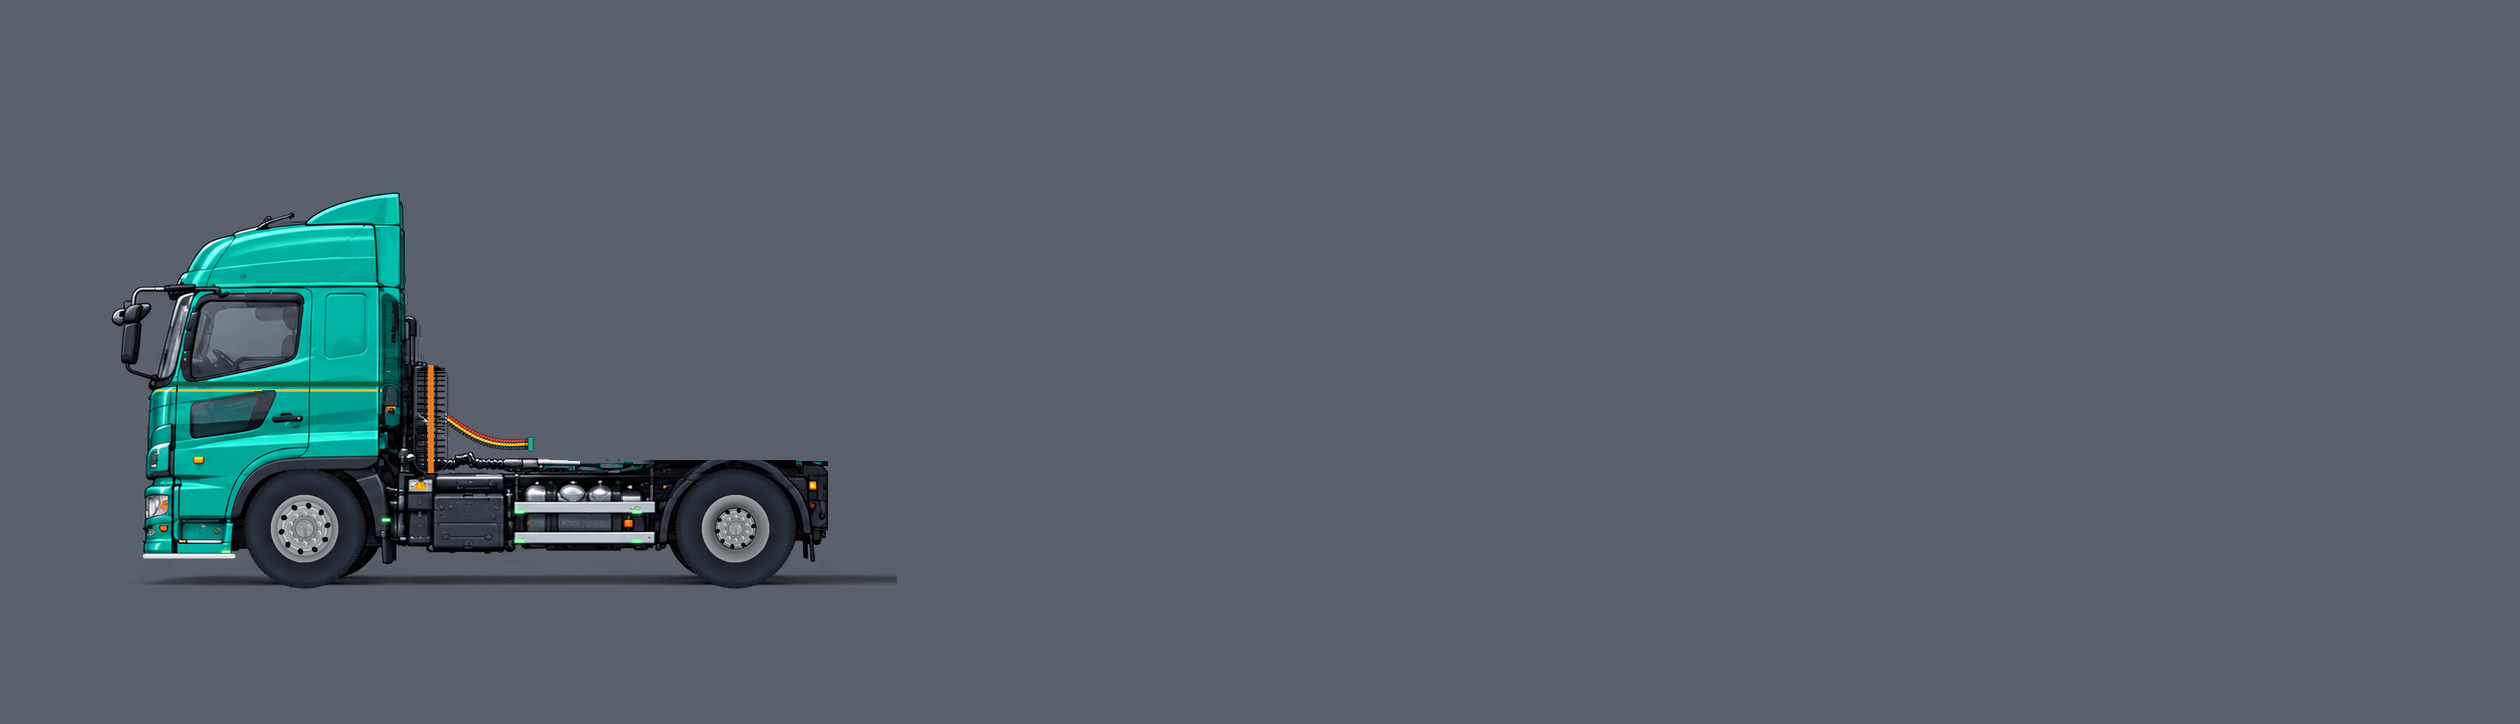
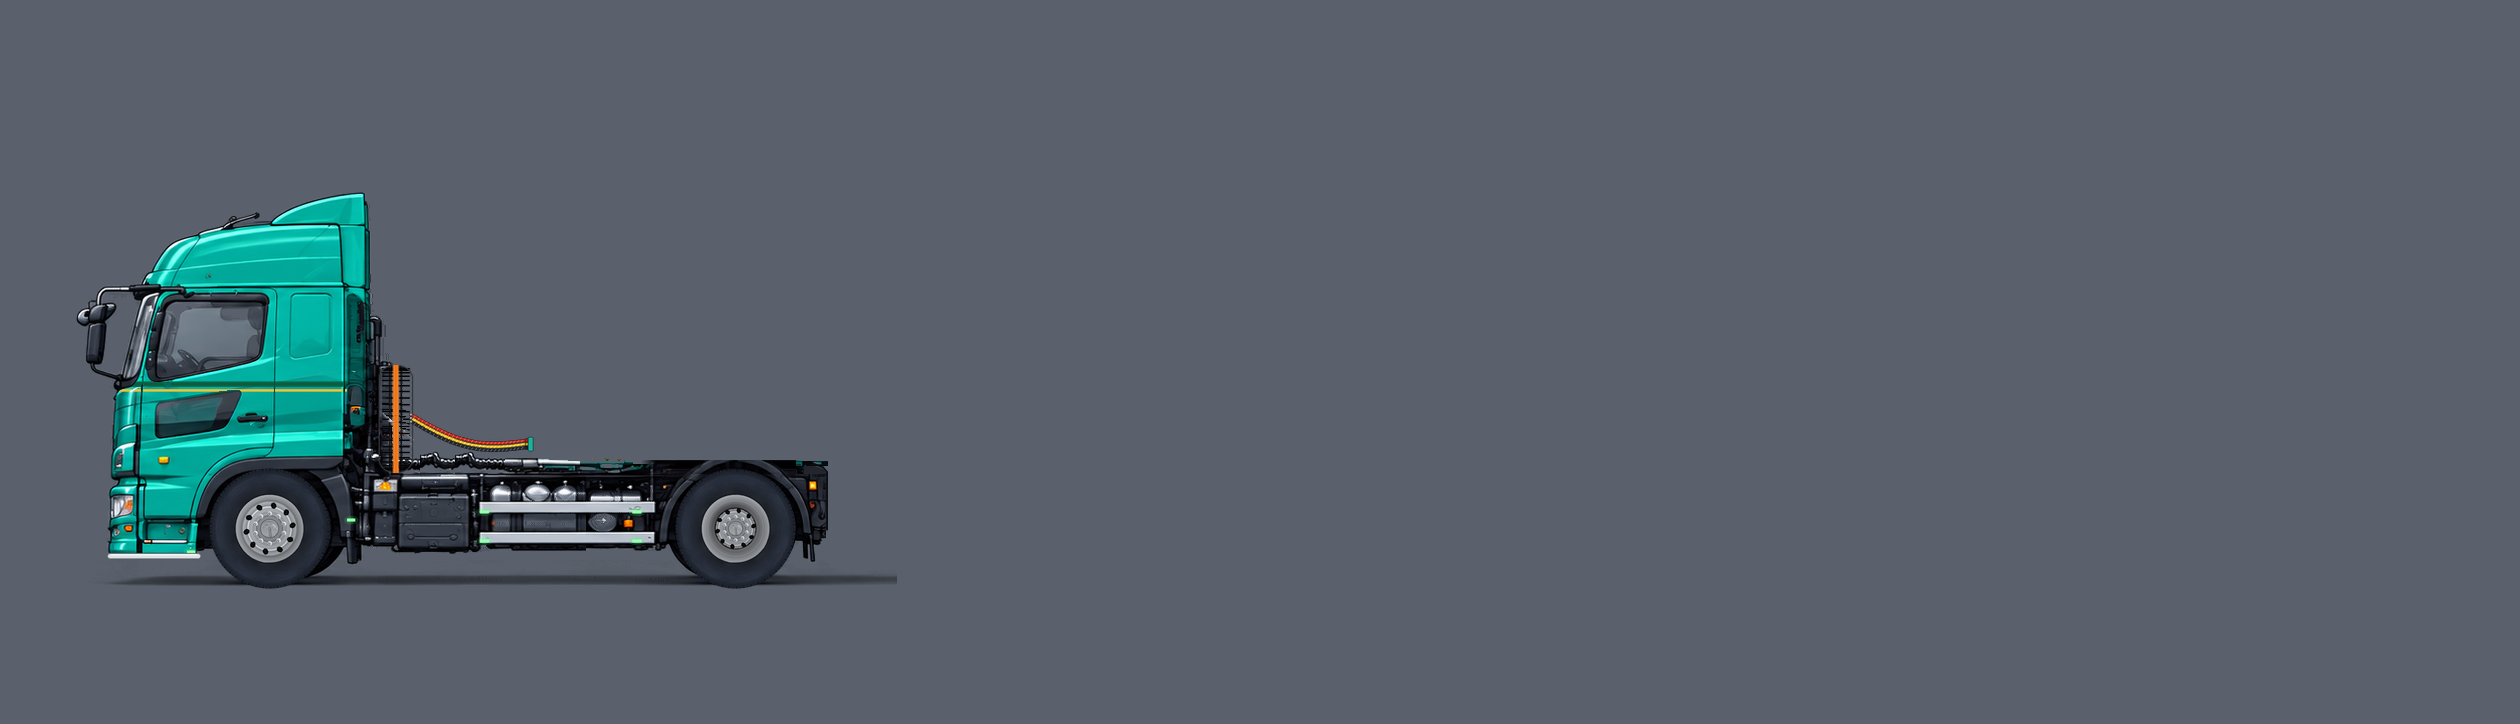
ビルド279.1.61(D53)

Changed region(s): [[0.031, 0.2431, 0.2476, 0.8204]]

diff --git a/index.html b/index.html
@@ -301,33 +301,33 @@
     color: #1b1f24; font-size: 13px; font-weight: bold; line-height: 1.2; text-align: center;
     background: none;
     border: 14px solid transparent; border-width: 14px; margin: 0;
-    border-image: url(assets/common/ui/btn_plate.png?v=279.1.60) 14 fill / 14px stretch;
+    border-image: url(assets/common/ui/btn_plate.png?v=279.1.61) 14 fill / 14px stretch;
     border-radius: 0;
     text-shadow: 0 1px 0 rgba(255,255,255,.35);
   }
-  .plate:active, #floorPanel .mechRow button:active, #chockPanel button:active, #btnOrient:active, #btnOrientCar:active, #deckDrawerHandle:active { border-image-source: url(assets/common/ui/btn_plate_pressed.png?v=279.1.60); padding-top: 2px; }
-  #floorPanel .mechRow button.on, #chockPanel button.on, #btnOrientCar { border-image-source: url(assets/common/ui/btn_plate_go.png?v=279.1.60); }
-  #floorPanel .mechRow button.on:active, #btnOrientCar:active { border-image-source: url(assets/common/ui/btn_plate_go_pressed.png?v=279.1.60); }
-  #btnLid { border-image-source: url(assets/common/ui/btn_plate_warn.png?v=279.1.60); }
-  #btnLid:active { border-image-source: url(assets/common/ui/btn_plate_warn_pressed.png?v=279.1.60); }
-  #floorPanel .mechRow button.go { border-image-source: url(assets/common/ui/btn_plate_go.png?v=279.1.60); }
-  #floorPanel .mechRow button.go:active { border-image-source: url(assets/common/ui/btn_plate_go_pressed.png?v=279.1.60); }
-  #chockPanel button:disabled, #btnOrient:disabled { border-image-source: url(assets/common/ui/btn_plate_disabled.png?v=279.1.60); opacity: 1; color: #6b7078; text-shadow: none; }
+  .plate:active, #floorPanel .mechRow button:active, #chockPanel button:active, #btnOrient:active, #btnOrientCar:active, #deckDrawerHandle:active { border-image-source: url(assets/common/ui/btn_plate_pressed.png?v=279.1.61); padding-top: 2px; }
+  #floorPanel .mechRow button.on, #chockPanel button.on, #btnOrientCar { border-image-source: url(assets/common/ui/btn_plate_go.png?v=279.1.61); }
+  #floorPanel .mechRow button.on:active, #btnOrientCar:active { border-image-source: url(assets/common/ui/btn_plate_go_pressed.png?v=279.1.61); }
+  #btnLid { border-image-source: url(assets/common/ui/btn_plate_warn.png?v=279.1.61); }
+  #btnLid:active { border-image-source: url(assets/common/ui/btn_plate_warn_pressed.png?v=279.1.61); }
+  #floorPanel .mechRow button.go { border-image-source: url(assets/common/ui/btn_plate_go.png?v=279.1.61); }
+  #floorPanel .mechRow button.go:active { border-image-source: url(assets/common/ui/btn_plate_go_pressed.png?v=279.1.61); }
+  #chockPanel button:disabled, #btnOrient:disabled { border-image-source: url(assets/common/ui/btn_plate_disabled.png?v=279.1.61); opacity: 1; color: #6b7078; text-shadow: none; }
   #floorPanel .mechRow button::before, #chockPanel #btnLid::before, #chockPanel #btnChockSet::before, #chockPanel #btnChockFront::before, #chockPanel #btnChockRear::before, #btnOrient::before, #btnOrientCar::before, #deckDrawerHandle::before {
     content: ''; flex: none; width: 26px; height: 26px; background-position: center; background-size: contain; background-repeat: no-repeat;
   }
   #modeBar > span:empty { display: none; }
   #floorPanel .mechRow button.hold6b::before { display: none; }   /* semi-6b の仮の昇降ボタン(アイコン無し) */
-  #btnRamp::before { background-image: url(assets/common/ui/ic_ramp.png?v=279.1.60); }
-  #btnBridge::before { background-image: url(assets/common/ui/ic_bridge.png?v=279.1.60); }
-  #btnSlide::before { background-image: url(assets/common/ui/ic_slide.png?v=279.1.60); }
-  #btnF2Flap::before { background-image: url(assets/common/ui/ic_flap2.png?v=279.1.60); }
-  #btnLid::before { background-image: url(assets/common/ui/ic_lid.png?v=279.1.60); }
-  #btnChockSet::before { background-image: url(assets/common/ui/ic_chock.png?v=279.1.60); }
-  #btnChockFront::before { background-image: url(assets/common/ui/ic_front.png?v=279.1.60); }
-  #btnChockRear::before { background-image: url(assets/common/ui/ic_rear.png?v=279.1.60); }
-  #btnOrient::before, #btnOrientCar::before { background-image: url(assets/common/ui/ic_orient.png?v=279.1.60); }
-  #deckDrawerHandle::before { background-image: url(assets/common/ui/ic_drawer.png?v=279.1.60); }
+  #btnRamp::before { background-image: url(assets/common/ui/ic_ramp.png?v=279.1.61); }
+  #btnBridge::before { background-image: url(assets/common/ui/ic_bridge.png?v=279.1.61); }
+  #btnSlide::before { background-image: url(assets/common/ui/ic_slide.png?v=279.1.61); }
+  #btnF2Flap::before { background-image: url(assets/common/ui/ic_flap2.png?v=279.1.61); }
+  #btnLid::before { background-image: url(assets/common/ui/ic_lid.png?v=279.1.61); }
+  #btnChockSet::before { background-image: url(assets/common/ui/ic_chock.png?v=279.1.61); }
+  #btnChockFront::before { background-image: url(assets/common/ui/ic_front.png?v=279.1.61); }
+  #btnChockRear::before { background-image: url(assets/common/ui/ic_rear.png?v=279.1.61); }
+  #btnOrient::before, #btnOrientCar::before { background-image: url(assets/common/ui/ic_orient.png?v=279.1.61); }
+  #deckDrawerHandle::before { background-image: url(assets/common/ui/ic_drawer.png?v=279.1.61); }
   #chockPanel #btnChockFront, #chockPanel #btnChockRear { font-size: 0; padding: 0 4px; min-width: 56px; }   /* ◀前へ・後ろへ▶ は、アイコンだけ */
   #chockPanel #btnChockFront::after { content: '前へ'; font-size: 12px; }
   #chockPanel #btnChockRear::after { content: '後ろへ'; font-size: 12px; }
@@ -336,57 +336,57 @@
   /* 輪止め・落し蓋のスロット: フロアの名札(slot_*)。選んでいる番号は黄色い縁 */
   #slotSel button { box-sizing: border-box; width: 46px; height: 46px; min-width: 0; padding: 0; border: 0; border-radius: 0; font-size: 0; color: transparent; background: center / contain no-repeat; }
   #slotSel button.on { background-color: transparent; border: 0; }
-  #slotSel button[data-slot="1"] { background-image: url(assets/common/ui/slot_1.png?v=279.1.60); } #slotSel button[data-slot="1"].on { background-image: url(assets/common/ui/slot_1_selected.png?v=214); }
-  #slotSel button[data-slot="2"] { background-image: url(assets/common/ui/slot_2.png?v=279.1.60); } #slotSel button[data-slot="2"].on { background-image: url(assets/common/ui/slot_2_selected.png?v=214); }
-  #slotSel button[data-slot="3"] { background-image: url(assets/common/ui/slot_3.png?v=279.1.60); } #slotSel button[data-slot="3"].on { background-image: url(assets/common/ui/slot_3_selected.png?v=214); }
-  #slotSel button[data-slot="4"] { background-image: url(assets/common/ui/slot_4.png?v=279.1.60); } #slotSel button[data-slot="4"].on { background-image: url(assets/common/ui/slot_4_selected.png?v=214); }
-  #slotSel button[data-slot="5"] { background-image: url(assets/common/ui/slot_5.png?v=279.1.60); } #slotSel button[data-slot="5"].on { background-image: url(assets/common/ui/slot_5_selected.png?v=214); }
-  #slotSel button[data-slot="6"] { background-image: url(assets/common/ui/slot_6.png?v=279.1.60); } #slotSel button[data-slot="6"].on { background-image: url(assets/common/ui/slot_6_selected.png?v=214); }
-  #slotSel button[data-slot="7"] { background-image: url(assets/common/ui/slot_mid.png?v=279.1.60); } #slotSel button[data-slot="7"].on { background-image: url(assets/common/ui/slot_mid_selected.png?v=214); }
+  #slotSel button[data-slot="1"] { background-image: url(assets/common/ui/slot_1.png?v=279.1.61); } #slotSel button[data-slot="1"].on { background-image: url(assets/common/ui/slot_1_selected.png?v=214); }
+  #slotSel button[data-slot="2"] { background-image: url(assets/common/ui/slot_2.png?v=279.1.61); } #slotSel button[data-slot="2"].on { background-image: url(assets/common/ui/slot_2_selected.png?v=214); }
+  #slotSel button[data-slot="3"] { background-image: url(assets/common/ui/slot_3.png?v=279.1.61); } #slotSel button[data-slot="3"].on { background-image: url(assets/common/ui/slot_3_selected.png?v=214); }
+  #slotSel button[data-slot="4"] { background-image: url(assets/common/ui/slot_4.png?v=279.1.61); } #slotSel button[data-slot="4"].on { background-image: url(assets/common/ui/slot_4_selected.png?v=214); }
+  #slotSel button[data-slot="5"] { background-image: url(assets/common/ui/slot_5.png?v=279.1.61); } #slotSel button[data-slot="5"].on { background-image: url(assets/common/ui/slot_5_selected.png?v=214); }
+  #slotSel button[data-slot="6"] { background-image: url(assets/common/ui/slot_6.png?v=279.1.61); } #slotSel button[data-slot="6"].on { background-image: url(assets/common/ui/slot_6_selected.png?v=214); }
+  #slotSel button[data-slot="7"] { background-image: url(assets/common/ui/slot_mid.png?v=279.1.61); } #slotSel button[data-slot="7"].on { background-image: url(assets/common/ui/slot_mid_selected.png?v=214); }
   #slotSel button:active { filter: brightness(.85); }
 
   /* 前進(◀ 緑)・後退(▶ 橙)の大きな丸い押ボタン(押している間は沈む。クラス down は ui_layout.js が付ける) */
   #arrowGroup { background: none; border: 0; padding: 0; gap: 14px; }
   #arrowGroup .arrowBtn { width: 76px; height: 76px; border: 0; border-radius: 0; background-color: transparent; background-position: center; background-size: contain; background-repeat: no-repeat; font-size: 0; color: transparent; }
-  #btnLeft { background-image: url(assets/common/ui/btn_drive_fwd.png?v=279.1.60); }
-  #btnRight { background-image: url(assets/common/ui/btn_drive_back.png?v=279.1.60); }
-  #btnLeft:active, #btnLeft.down { background-image: url(assets/common/ui/btn_drive_fwd_pressed.png?v=279.1.60); background-color: transparent; }
-  #btnRight:active, #btnRight.down { background-image: url(assets/common/ui/btn_drive_back_pressed.png?v=279.1.60); background-color: transparent; }
+  #btnLeft { background-image: url(assets/common/ui/btn_drive_fwd.png?v=279.1.61); }
+  #btnRight { background-image: url(assets/common/ui/btn_drive_back.png?v=279.1.61); }
+  #btnLeft:active, #btnLeft.down { background-image: url(assets/common/ui/btn_drive_fwd_pressed.png?v=279.1.61); background-color: transparent; }
+  #btnRight:active, #btnRight.down { background-image: url(assets/common/ui/btn_drive_back_pressed.png?v=279.1.61); background-color: transparent; }
   body { padding-bottom: 104px; }
 
   /* 上の情報欄・下の操作パネルの背景 */
-  #modeBar { box-sizing: border-box; background: none; border: solid transparent; border-width: 0 24px 6px 24px; border-image: url(assets/common/ui/hud_bar.png?v=279.1.60) 0 24 6 24 fill / 0 24px 6px 24px stretch; padding: 8px 0 4px; gap: 8px; color: #dfe8f2; min-height: 56px; align-items: center; }
+  #modeBar { box-sizing: border-box; background: none; border: solid transparent; border-width: 0 24px 6px 24px; border-image: url(assets/common/ui/hud_bar.png?v=279.1.61) 0 24 6 24 fill / 0 24px 6px 24px stretch; padding: 8px 0 4px; gap: 8px; color: #dfe8f2; min-height: 56px; align-items: center; }
   #modeBar #modeBarName { flex: 1 1 100%; font-size: 14px; }
-  #modeBar > span:not(#modeBarName):not(#missCount) { box-sizing: border-box; border: 8px solid transparent; border-image: url(assets/common/ui/meter_box.png?v=279.1.60) 8 fill / 8px stretch; padding: 0 2px; min-width: 56px; text-align: center; font-size: 13px; color: #7dfcd0; font-weight: bold; line-height: 1.1; }
+  #modeBar > span:not(#modeBarName):not(#missCount) { box-sizing: border-box; border: 8px solid transparent; border-image: url(assets/common/ui/meter_box.png?v=279.1.61) 8 fill / 8px stretch; padding: 0 2px; min-width: 56px; text-align: center; font-size: 13px; color: #7dfcd0; font-weight: bold; line-height: 1.1; }
   #modeBar #modeBarScore { margin-left: auto; color: #ffd34d; }
   #modeBar #missCount { margin-left: 4px; font-size: 14px; }
   #toolbar { display: none; }
   body.debug #toolbar { display: flex; }
   #status { display: none; }
   body.debug #status { display: block; }
-  #floorPanel, #chockPanel, #controls { box-sizing: border-box; background: none; border: solid transparent; border-width: 12px 16px 8px 16px; border-image: url(assets/common/ui/panel_bg.png?v=279.1.60) 12 16 8 16 fill / 12px 16px 8px 16px stretch; margin-top: 2px; }
+  #floorPanel, #chockPanel, #controls { box-sizing: border-box; background: none; border: solid transparent; border-width: 12px 16px 8px 16px; border-image: url(assets/common/ui/panel_bg.png?v=279.1.61) 12 16 8 16 fill / 12px 16px 8px 16px stretch; margin-top: 2px; }
 
   /* A-3 必要な時だけ出す: スイッチの説明文は ? を押した時だけ。車の一覧は引き出し式 */
   #swHint { display: none !important; }
   #swHint.show { display: block !important; }
   #btnHelp, #btnSwClose { box-sizing: border-box; width: 36px; height: 36px; padding: 0; margin-left: 8px; vertical-align: middle; border: 0; background: center / contain no-repeat; font-size: 0; color: transparent; cursor: pointer; }
-  #btnHelp { background-image: url(assets/common/ui/ic_help.png?v=279.1.60); }
-  #floorPanel #btnSwClose { width: 36px; height: 36px; padding: 0; margin-left: 4px; border: 0; background: center / contain no-repeat url(assets/common/ui/ic_close.png?v=279.1.60); font-size: 0; }
+  #btnHelp { background-image: url(assets/common/ui/ic_help.png?v=279.1.61); }
+  #floorPanel #btnSwClose { width: 36px; height: 36px; padding: 0; margin-left: 4px; border: 0; background: center / contain no-repeat url(assets/common/ui/ic_close.png?v=279.1.61); font-size: 0; }
   #deckDrawerHandle { width: 100%; justify-content: flex-start; }
   #deckDrawerHandle .cnt { margin-left: auto; font-weight: normal; }
   #deckDrawer { display: none; }
   #deckDrawer.open { display: block; margin-top: 6px; }
 
   /* 今は押せない操作(車が道板・4番扇動板を通っている間など)は、灰色の板にする(ui_layout.js が na を付ける。押すとゲームが理由を出す) */
-  #floorPanel .mechRow button.na, #floorPanel .mechRow button.na:active { border-image-source: url(assets/common/ui/btn_plate_disabled.png?v=279.1.60); color: #6b7078; text-shadow: none; padding-top: 0; }
+  #floorPanel .mechRow button.na, #floorPanel .mechRow button.na:active { border-image-source: url(assets/common/ui/btn_plate_disabled.png?v=279.1.61); color: #6b7078; text-shadow: none; padding-top: 0; }
   #floorPanel .mechRow button.na::before { opacity: .45; }
 
   /* モード・難易度・結果の画面のボタンも、同じ板にそろえる(もう一度=緑) */
-  .modeBtn { box-sizing: border-box; background: none; border: 14px solid transparent; border-image: url(assets/common/ui/btn_plate.png?v=279.1.60) 14 fill / 14px stretch; border-radius: 0; color: #1b1f24; text-shadow: 0 1px 0 rgba(255,255,255,.35); padding: 4px 8px; min-height: 52px; }
+  .modeBtn { box-sizing: border-box; background: none; border: 14px solid transparent; border-image: url(assets/common/ui/btn_plate.png?v=279.1.61) 14 fill / 14px stretch; border-radius: 0; color: #1b1f24; text-shadow: 0 1px 0 rgba(255,255,255,.35); padding: 4px 8px; min-height: 52px; }
   .modeBtn small { color: #3a4048; }
-  .modeBtn:active { background: none; border-image-source: url(assets/common/ui/btn_plate_pressed.png?v=279.1.60); }
-  #btnRetry.modeBtn { border-image-source: url(assets/common/ui/btn_plate_go.png?v=279.1.60); }
-  #btnRetry.modeBtn:active { border-image-source: url(assets/common/ui/btn_plate_go_pressed.png?v=279.1.60); }
+  .modeBtn:active { background: none; border-image-source: url(assets/common/ui/btn_plate_pressed.png?v=279.1.61); }
+  #btnRetry.modeBtn { border-image-source: url(assets/common/ui/btn_plate_go.png?v=279.1.61); }
+  #btnRetry.modeBtn:active { border-image-source: url(assets/common/ui/btn_plate_go_pressed.png?v=279.1.61); }
 
   /* ===== スマホ幅: 下にスクロールしなくても、操作が1画面に収まるように詰める(車の一覧だけ、下にスクロールでよい。2026-10-06) =====
      幅 700px 以下だけに効く(パソコンの広い画面は、今まで通り)。ボタンの高さ・余白・段数を減らす */
@@ -664,7 +664,7 @@
 // トレーラーの切り替え: URL の hash に trailer=semi-6b があれば semi-6b、無ければ semi-6(従来どおり)。選んだIDは window.TRAILER_ID。
 // 読むファイルの組み合わせがトレーラーごとに違う(設定・フロア機構・積める判定・操作ボタン)ので、ここで決めて順番に読む。画像・JSを差し替えたら ?v= を上げる
 (function () {
-  var m = /[#&]trailer=(semi-6b?)(?:&|$)/.exec(location.hash), id = window.TRAILER_ID = m ? m[1] : 'semi-6', V = '?v=279.1.60';
+  var m = /[#&]trailer=(semi-6b?)(?:&|$)/.exec(location.hash), id = window.TRAILER_ID = m ? m[1] : 'semi-6', V = '?v=279.1.61';
   var list = id === 'semi-6b'
     ? ['trailer_config_semi6b', 'car_library', 'car_dims', 'car_tires', 'floor_mech_6b', 'loadable_6b', 'main', 'game', 'floor_controls_6b', 'modes', 'dispatch', 'ui_layout', 'ui_hide']
     : ['trailer_config', 'trailer_assets', 'car_library', 'car_dims', 'car_tires', 'floor_mech', 'loadable', 'main', 'game', 'floor_controls', 'modes', 'tutorial', 'dispatch', 'ui_layout', 'ui_hide'];

diff --git a/js/trailer_config.js b/js/trailer_config.js
@@ -2,11 +2,11 @@ window.TRAILER_CONFIG = {
   "id": "semi-6",
   "name": "セミトレーラー(6台積み)",
   "stage": { "w": 2520, "h": 724 },
-  "yard": { "bg": "assets/common/yard/yard_bg.png", "ground": "assets/common/yard/yard_ground.png", "frameBack": "assets/semi-6/frame_back_clear.png", "tractor": "assets/semi-6/tractor_clear.png", "v": 5 },
+  "yard": { "bg": "assets/common/yard/yard_bg.png", "ground": "assets/common/yard/yard_ground.png", "frameBack": "assets/semi-6/frame_back_clear.png", "tractor": "assets/semi-6/tractor_clear.png", "v": 6 },
   "pxPerMeter": 114,
 
   "newArt": {
-    "v": 126,
+    "v": 127,
     "note": "グラフィック制作チャットの新素材(assets/semi-6/...)。floors=フロア(ステージ全面サイズ)",
     "switchScale": 0.27, "switchDir": "assets/common/switches/",
     "switchParts": ["sw_pendant2", "sw_pendant6", "sw_box2", "lamp_panel_lock", "btn_cap_ue_big", "btn_cap_ue_big_pressed", "btn_cap_shita_big", "btn_cap_shita_big_pressed", "btn_sq", "btn_sq_pressed", "btn_cap6_nobi_big", "btn_cap6_chiji_big", "btn_cap6_migi_oshi_big", "btn_cap6_migi_hiki_big", "btn_cap6_hidari_oshi_big", "btn_cap6_hidari_hiki_big", "btn_cap6_nobi_big_pressed", "btn_cap6_chiji_big_pressed", "btn_cap6_migi_oshi_big_pressed", "btn_cap6_migi_hiki_big_pressed", "btn_cap6_hidari_oshi_big_pressed", "btn_cap6_hidari_hiki_big_pressed", "hint_glow", "lamp_green", "lamp_green_off", "lamp_red", "lamp_red_off"],

diff --git a/title.html b/title.html
@@ -299,7 +299,7 @@
   <div class="stars"></div><div class="sl far"></div><div class="sl mid"></div><div class="sl near"></div><div class="road3d"><div class="strip"></div></div><div class="sl grail"></div>
   <div class="rig" id="rig">
     <div class="shadow"></div>
-    <img class="body" src="assets/ui/rig.png?v=124" alt="">
+    <img class="body" src="assets/ui/rig.png?v=125" alt="">
   </div>
   <div class="rain"></div><div class="rain r2"></div>
 </div>
@@ -350,7 +350,7 @@
 (function () {
   // 車輪の位置は assets/ui/rig.json(make_title_assets.py が出力)と同じ値
   var RIG = { w: 1034, h: 201, wheels: [
-    { k: 'front', cx: 152.25, cy: 170.25, size: 60.5 },
+    { k: 'front', cx: 134.75, cy: 170.25, size: 60.5 },
     { k: 'drive', cx: 367.75, cy: 170.25, size: 60.5 },
     { k: 'trailer', cx: 933.5, cy: 168.5, size: 59 } ] };
   var GAME_URL = 'index.html';
@@ -461,6 +461,6 @@
   });
 })();
 </script>
-<div id="buildTag" style="position:fixed;right:8px;bottom:6px;font:11px/1 sans-serif;color:rgba(255,255,255,.55);text-shadow:0 1px 2px rgba(0,0,0,.6);z-index:5;pointer-events:none">ビルド 279.1.60</div>
+<div id="buildTag" style="position:fixed;right:8px;bottom:6px;font:11px/1 sans-serif;color:rgba(255,255,255,.55);text-shadow:0 1px 2px rgba(0,0,0,.6);z-index:5;pointer-events:none">ビルド 279.1.61</div>
 </body>
 </html>

diff --git a/js/game.js b/js/game.js
@@ -46,7 +46,7 @@
   var SPIN_SIGN = -1; // 前進(進行量+)方向のホイール回転符号
   var CHOCK_OVERRIDE_SPEED_PX_S = 3.05 * cfg.pxPerMeter; // これ以上の勢いで当たると輪止めを乗り越える(高い輪止め=乗り越えにくい)
   var OVERRIDE_SPEED_KEEP = 0.55; // 乗り越えた瞬間、衝撃で失われず残る速度の割合
-  var CAB_DECEL = 420, CAB_X = 420, CAB_DECK_X = 491;   // 1番を乗り越えた車が、床の先端を越えて滑る時の減速(px/秒²)と、キャビンの後ろ面のx(ステージ座標)
+  var CAB_DECEL = 420, CAB_X = 385, CAB_DECK_X = 491;   // 1番を乗り越えた車が、床の先端を越えて滑る時の減速(px/秒²)と、キャビンの後ろ面のx(ステージ座標)
   var OVERSHOOT_CAP_PX = 130; // 乗り越えて進める限界(その先は壁扱いでこれ以上進めない)
 
   var missCountEl = document.getElementById('missCount');

diff --git a/js/main.js b/js/main.js
@@ -713,7 +713,7 @@
     if (IS6B) return;
     if (!tractorWheelImgs) {
       tractorWheelImgs = [];
-      [['assets/semi-6/wheel_front.png', 304.5, 528.5], ['assets/semi-6/wheel_drive.png', 735.5, 528.5]].forEach(function (d) {
+      [['assets/semi-6/wheel_front.png', 269.5, 528.5], ['assets/semi-6/wheel_drive.png', 735.5, 528.5]].forEach(function (d) {
         var im = new Image(); im.src = d[0] + '?v=1'; tractorWheelImgs.push({ im: im, x: d[1], y: d[2] });
       });
     }
